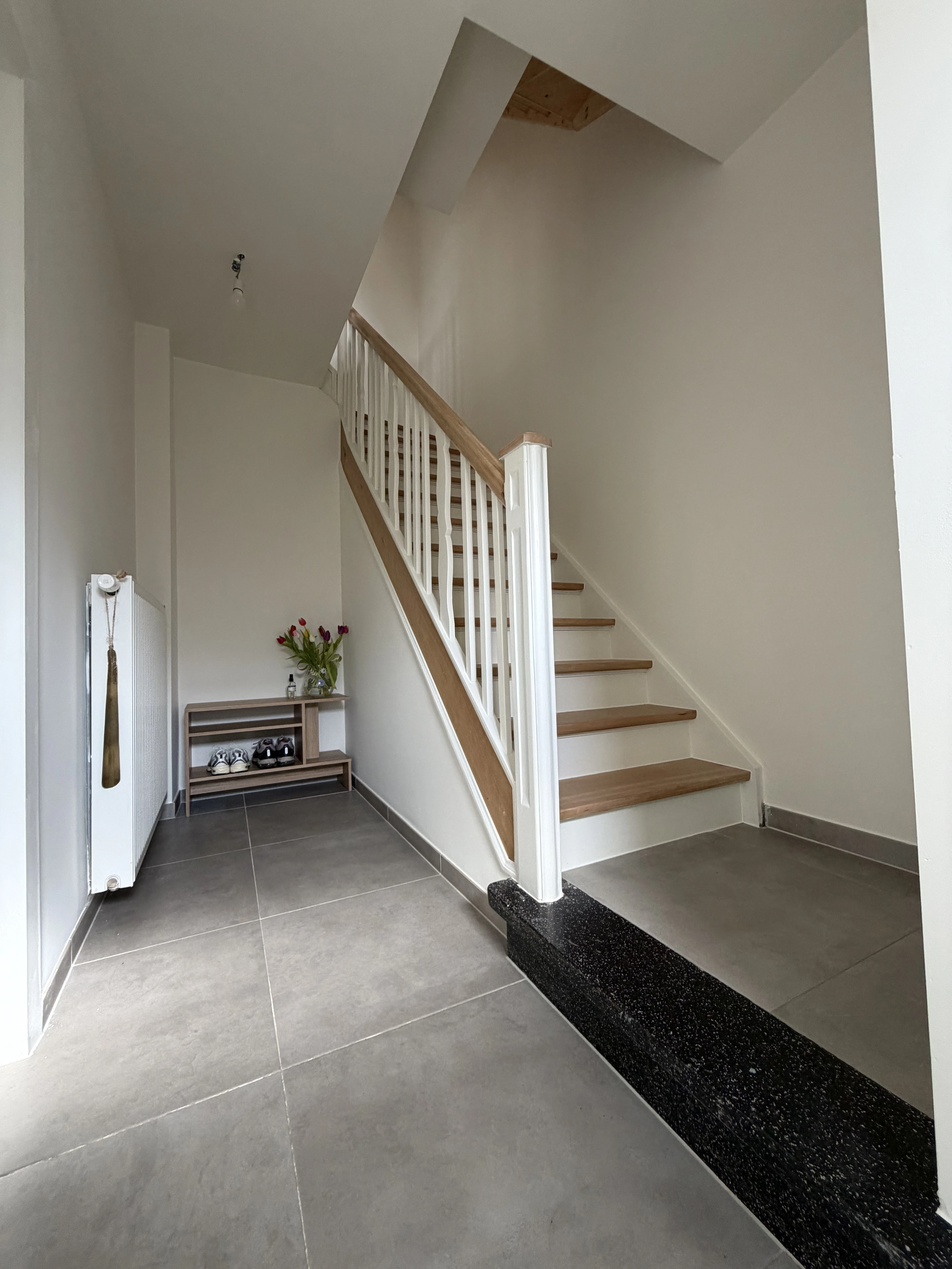
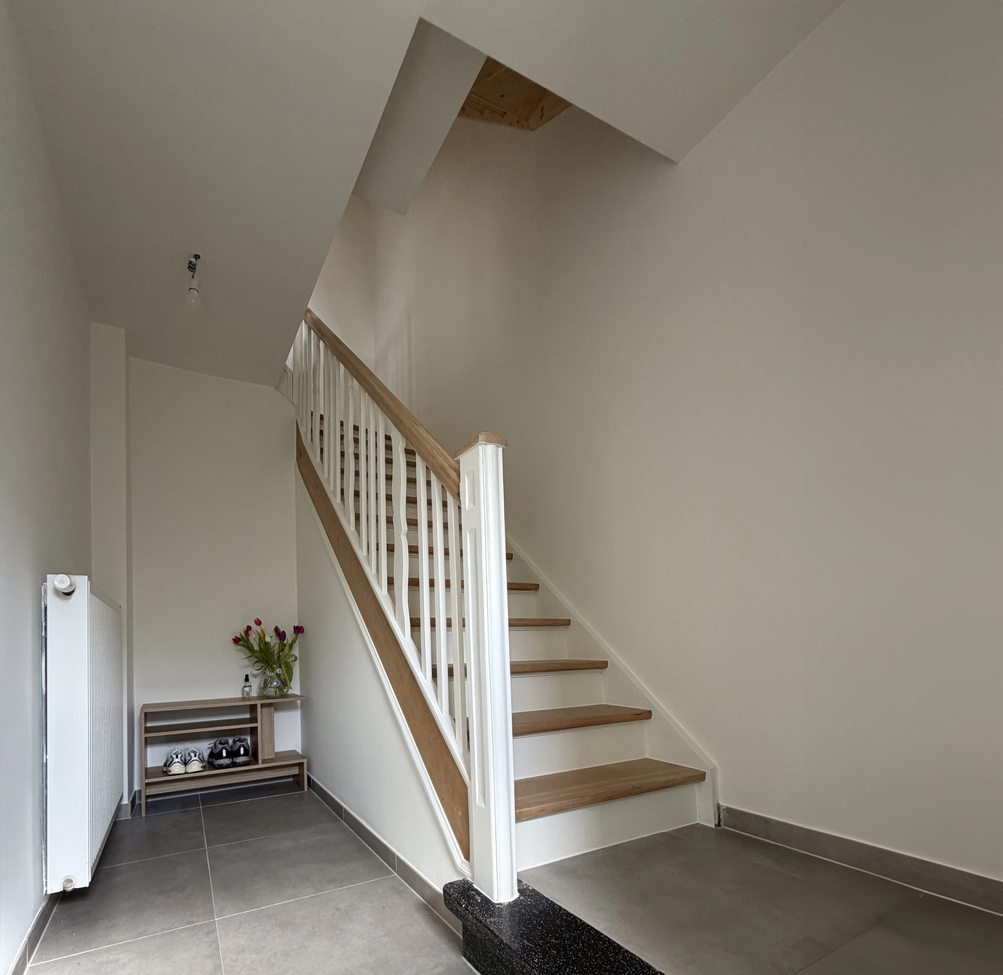
feat: header responsive

diff --git a/src/index.html b/src/index.html
@@ -4,85 +4,46 @@
 <head>
   <meta charset="UTF-8" />
   <link rel="icon" type="image/svg+xml" href="favicon.ico" />
+  <link rel="stylesheet" href="https://use.typekit.net/epa3pem.css">
   <link rel="stylesheet" href="https://cdn.jsdelivr.net/npm/bootstrap-icons@1.11.3/font/bootstrap-icons.min.css" />
   <meta name="viewport" content="width=device-width, initial-scale=1.0" />
   <title>Windels Decor</title>
 </head>
 
 <body>
-  <header>
-    <div class="c-header">
-      <!-- <nav class="c-nav">
-        <img class="c-nav__logo" src="Logo_WindelsDecor.svg" alt="Logo Windels Decor">
-        <ul class="c-nav__items">
-          <li class="c-nav__item"><a class="c-nav__link" href="#overons">Over ons</a></li>
-          <li class="c-nav__item"><a class="c-nav__link" href="#realisaties">Realisaties</a></li>
-          <li class="c-nav__item"><a class="c-nav__link" href="#contact">Contact</a></li>
-        </ul>
-      </nav> -->
-      <!-- <nav class="navbar navbar-expand-md bg-1">
-        <div class="container-fluid">
-          <a class="navbar-brand" href="#">
-            <img class="c-nav__logo" src="Logo_WindelsDecor.svg" alt="Logo Windels Decor">
-          </a>
-
-          <button class="navbar-toggler" type="button" data-bs-toggle="offcanvas" data-bs-target="#navbarOffcanvas" aria-controls="navbarOffcanvas" aria-label="Toggle navigation">
-            <span class="navbar-toggler-icon"></span>
+  <header class="c-header">
+    <nav class="c-nav">
+      <div class="container-fluid c-nav__navbar">
+        <a class="c-nav__logolink" href="/">
+          <img class="c-nav__logo" src="Logo_WindelsDecor.svg" alt="Logo Windels Decor">
+        </a>
+        <div class="c-nav__linecontainer">
+          <button class="c-nav__toggle" type="button" aria-expanded="false" aria-controls="nav-items" aria-label="Toggle navigation">
+            <span class="c-nav__bar c-nav__bar--top"></span>
+            <span class="c-nav__bar c-nav__bar--mid"></span>
+            <span class="c-nav__bar c-nav__bar--bot"></span>
           </button>
 
-          <div class="offcanvas offcanvas-end" tabindex="-1" id="navbarOffcanvas" aria-labelledby="navbarOffcanvasLabel">
-            <div class="offcanvas-header">
-              <button type="button" class="btn-close" data-bs-dismiss="offcanvas" aria-label="Close"></button>
-            </div>
-            <div class="offcanvas-body">
-              <ul class="navbar-nav ms-auto">
-                <li class="nav-item c-nav__item">
-                  <a class="nav-link c-nav__link" href="#overons">Over ons</a>
-                </li>
-                <li class="nav-item c-nav__item">
-                  <a class="nav-link c-nav__link" href="#realisaties">Realisaties</a>
-                </li>
-                <li class="nav-item c-nav__item">
-                  <a class="nav-link c-nav__link" href="#contact">Contact</a>
-                </li>
-              </ul>
-            </div>
-          </div>
+          <ul class="c-nav__items" id="nav-items">
+            <li class="c-nav__item"><a class="c-nav__link" href="#overons">Over ons</a></li>
+            <li class="c-nav__item"><a class="c-nav__link" href="#realisaties">Realisaties</a></li>
+            <li class="c-nav__item"><a class="c-nav__link" href="#contact">Contact</a></li>
+          </ul>
         </div>
-      </nav> -->
-      <nav class="c-nav">
-        <div class="container-fluid c-nav__navbar">
-          <a class="c-nav__logolink" href="/">
-            <img class="c-nav__logo" src="Logo_WindelsDecor.svg" alt="Logo Windels Decor">
-          </a>
-
-          <div class="c-nav__linecontainer">
-            <button class="c-nav__toggle" type="button" aria-expanded="false" aria-controls="nav-items" aria-label="Toggle navigation">
-              <span class="c-nav__bar c-nav__bar--top"></span>
-              <span class="c-nav__bar c-nav__bar--mid"></span>
-              <span class="c-nav__bar c-nav__bar--bot"></span>
-            </button>
-
-            <ul class="c-nav__items" id="nav-items">
-              <li class="c-nav__item"><a class="c-nav__link" href="#overons">Over ons</a></li>
-              <li class="c-nav__item"><a class="c-nav__link" href="#realisaties">Realisaties</a></li>
-              <li class="c-nav__item"><a class="c-nav__link" href="#contact">Contact</a></li>
-            </ul>
-          </div>
-        </div>
-      </nav>
-      <div class="container">
-        <div class="row">
-          <div class="col d-flex flex-column align-items-end">
-            <div class="c-header__text">
-              <h1>Windels Decor</h1>
-              <p>Vakmanschap van vloer tot plafond.</p>
-              <a class="btn c-btn" href="mailto:info@windelsdecor.be">Vraag uw offerte aan</a>
-            </div>
+      </div>
+    </nav>
+    <div class="container">
+      <div class="row">
+        <div class="col d-flex flex-column align-items-end">
+          <div class="c-header__text">
+            <h1 class="c-header__title">Windels Decor</h1>
+            <p class="c-header__title c-header__title--sub">Vakmanschap van vloer tot plafond.</p>
+            <a class="btn c-btn" href="mailto:info@windelsdecor.be">Vraag uw offerte aan</a>
           </div>
         </div>
       </div>
     </div>
+
   </header>
 
   <main>

diff --git a/src/scss/_components-header.scss b/src/scss/_components-header.scss
@@ -2,13 +2,25 @@
 @use 'bs-core' as *;
 
 .c-header {
-    background-image: url(hero.webp);
-    background-position: center;
-    background-repeat: no-repeat;
-    background-size: cover;
+	background: url('hero_2.webp') center / cover no-repeat;
 
-    &__text {
-        margin-top: 10rem;
-        margin-bottom: 10rem;
+    @include media-breakpoint-down(sm) {
+        background: url(hero_2.webp) right / cover no-repeat;
     }
+
+	&__text {
+		margin-top: 5rem;
+		margin-bottom: 14rem;
+        text-align: right;
+	}
+
+	&__title {
+        color: black;
+
+        &--sub {
+            @include media-breakpoint-down(md) {
+                font-size: .875rem;
+            }
+        }
+	}
 }
